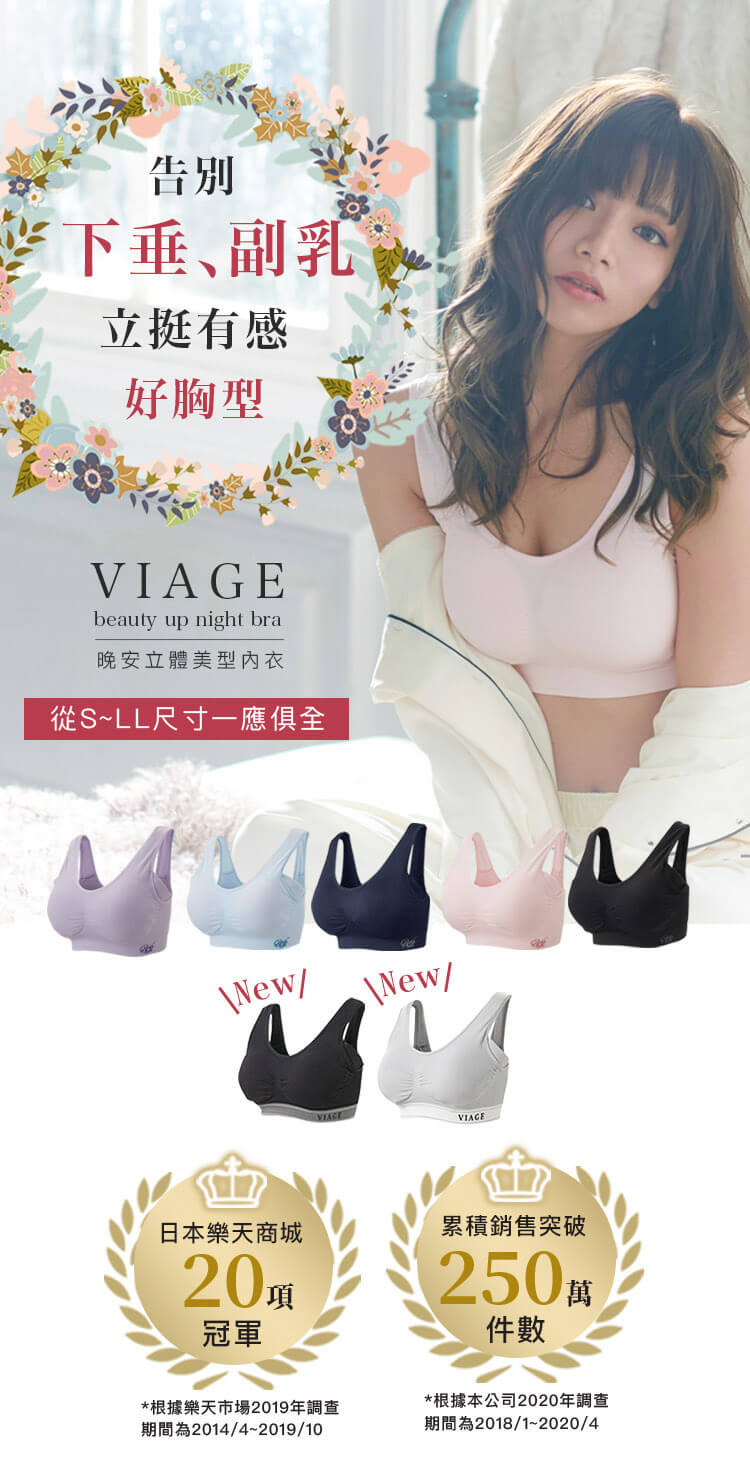
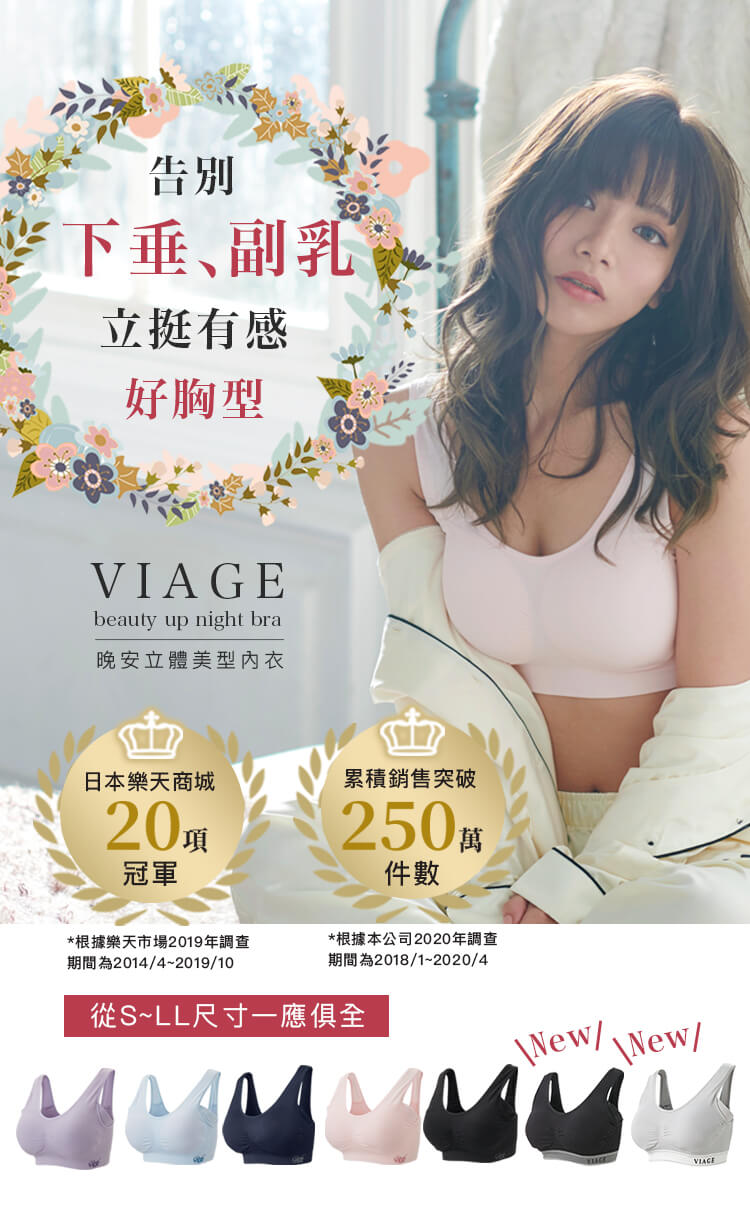
20200910_anniversary update

diff --git a/index.html b/index.html
@@ -172,14 +172,19 @@
             <!-- ▼自由編集箇所▼ -->
             <div class="main">
                 <div class="PC">
+                    <img src="./img/01_banner.jpg" alt="">
                     <img src="./img/01.jpg" alt="">
+                    <img src="./img/01_anniversary.jpg" alt="">
                     <img src="./img/01_alert.jpg" alt="">
                     <img src="./img/02_newcolor.jpg" style="width:70%;" alt="">
                     <img src="./img/03.jpg" style="width:70%;" alt="">
                     <img src="./img/ig_title.jpg" alt="" style="width:70%;">
                 </div>
                 <div class="SP">
+                    <img src="./img/SP/SP_01_banner.jpg" alt="">
                     <img src="./img/SP/SP_01.jpg" alt="">
+                    <img src="./img/SP/SP_01_anniversary_1.jpg" class="anniversary_1" alt="">
+                    <img src="./img/SP/SP_01_anniversary_2.jpg" class="anniversary_2" alt="">
                     <img src="./img/SP/SP_01_alert.jpg" alt="">
                     <img src="./img/SP/SP_02_newcolor.jpg" alt="">
                     <img src="./img/SP/SP_03.jpg" alt="">

diff --git a/js/all.js b/js/all.js
@@ -26,4 +26,11 @@ $(document).ready(function () {
     } else {
         $(".line_link").attr("href", "https://line.me/R/ti/p/%40fhl1857j");
     }
+    
+    //週年慶活動辦法下拉選單
+    $(".anniversary_2").hide();
+    $('.anniversary_1').click(function (e) { 
+        e.preventDefault();
+        $(".anniversary_2").toggle();
+    });
 });
